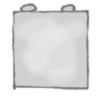
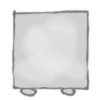
added energy focus

diff --git a/room.js b/room.js
@@ -90,6 +90,7 @@ Room.rooms = {
 		doors : ["west"],
 		windows : ["north", "east"],
 		background: "url(img/bedroom.png)",
+		energyThreshold: 3,
 		furniture : {
 			"#Bed": { 
 				name: "Bed",
@@ -110,7 +111,7 @@ Room.rooms = {
 			"#Bedstand" :{ 
 				name: "Bedstand",
 				cssBounds: {
-					top: 50, left: 350, width:100, height:100, rotate:270
+					top: 50, left: 350, width:100, height:100, rotate:90
 				},
 				background: "url(img/bedsidetable.png)",
 				description: "A cute little table to have next to the bed."
@@ -160,7 +161,7 @@ Room.rooms = {
 		},
 		wintest : function(context){
 			if(context.badness > 3){
-				$(".room").css('animation-name', 'shakingless');
+				$(".room").css('animation-name', 'shaking');
 			}
 			//some test for winning here
 			return context.badness > 4;
@@ -171,6 +172,7 @@ Room.rooms = {
 		doors : ["west"],
 		windows : ["north", "east"],
 		background: "url(img/livingroom.png)",
+		energyThreshold: 2,
 		furniture : {
 			"#TV": { 
 				name: "TV",
@@ -243,6 +245,8 @@ Room.rooms = {
 		},
 		wintest : function(context){
 			if(context.badness > 3){
+				$(".room").css('animation-name', 'shaking');
+			}else if(context.badness > 1){
 				$(".room").css('animation-name', 'shakingless');
 			}
 			//some test for winning here

diff --git a/main.js b/main.js
@@ -177,10 +177,20 @@ Game.testForWin = function(){
 }
 
 Game.calculateQi = function(room){
+	let energyVector = {x:0, y:0};
+
 	for (var furnitureid in Game.context.currentRoom.furniture){
 //		console.log("calculating stuff for " + furnitureid);
 		let furniture = Game.context.currentRoom.furniture[furnitureid];
 		Furniture.calculateStuff(furniture);
+		if(furniture.facing == "north")
+			energyVector.y -= 1;
+		if(furniture.facing == "south")
+			energyVector.y += 1;
+		if(furniture.facing == "east")
+			energyVector.y += 1;
+		if(furniture.facing == "west")
+			energyVector.y -= 1;
 	}
 
 	var totalBadness = 0;
@@ -198,6 +208,18 @@ Game.calculateQi = function(room){
 	console.log("total badness is " + totalBadness);
 	Game.context.badness = totalBadness;
 	Game.context.badStuff = badStuffs;
+
+	if(totalBadness >= Game.context.currentRoom.energyThreshold){
+		console.log("Badness above energyThreshold");
+		energyVector.x *= (totalBadness * 10);
+		energyVector.x += 250
+		energyVector.y *= (totalBadness * 10);
+		energyVector.y += 250
+		Game.context.energyVector = energyVector;
+	}else{
+		console.log("Badness below energyThreshold");
+		Game.context.energyVector = undefined;
+	}
 };
 
 Game.showIntro = function(){

diff --git a/index.html b/index.html
@@ -85,6 +85,14 @@
 						>
 					</div>
     			{{/each}}
+    			{{#if energyVector}}
+    				<div
+    					class="furniture"
+	    				id="energyVector" 
+						style="left:{{energyVector.x}}; top:{{energyVector.y}}; width:100; height:100; background-image:url('img/focus.png');" 
+						>
+					</div>
+    			{{/if}}
 	    	</div>
 	    </script>
 
